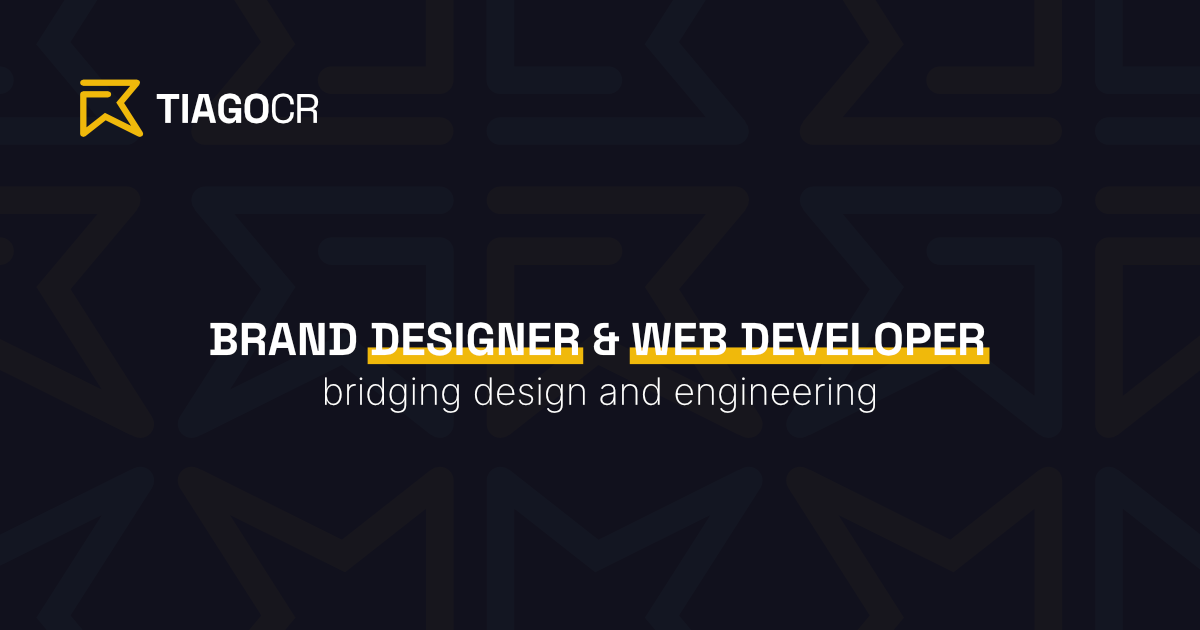
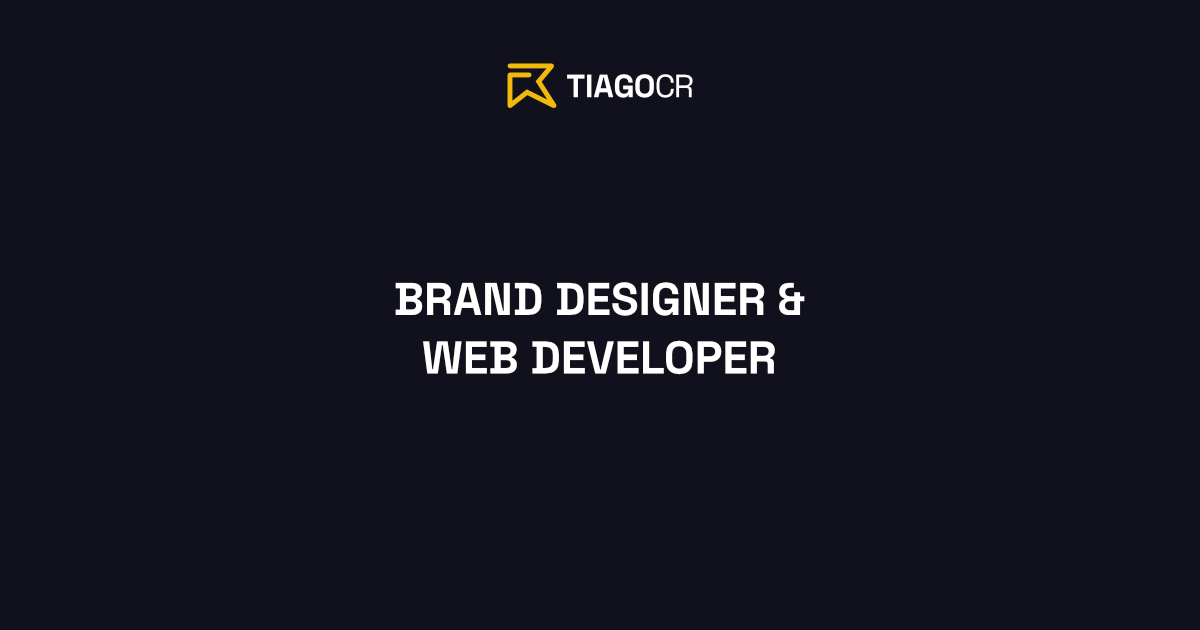
update: update og-default image. update meta description

Changed region(s): [[0.1542, 0.4222, 0.8325, 0.6635], [0.0617, 0.1206, 0.2775, 0.2111], [0.4008, 0.0905, 0.5858, 0.181]]

diff --git a/index.html b/index.html
@@ -9,12 +9,12 @@
 
   <!-- SEO baseline -->
   <meta name="description"
-    content="Brand designer & web developer. I design distinctive brands and build modern websites for founders and small businesses." />
+    content="Brand designer & web developer. I work with founder-led service businesses whose brand and website no longer reflect the standard of what they've built." />
 
   <!-- Open Graph baseline (social previews) -->
   <meta property="og:title" content="TiagoCR | Brand Designer & Web Developer" />
   <meta property="og:description"
-    content="I design distinctive brands and build modern websites for founders and small businesses." />
+    content="I work with founder-led service businesses whose brand and website no longer reflect the standard of what they've built." />
   <meta property="og:type" content="website" />
   <meta property="og:url" content="https://tiagocr.me/" />
   <meta property="og:image" content="https://tiagocr.me/og-default.png" />
@@ -25,7 +25,7 @@
   <meta name="twitter:card" content="summary_large_image" />
   <meta name="twitter:title" content="TiagoCR | Brand Designer & Web Developer" />
   <meta name="twitter:description"
-    content="I design distinctive brands and build modern websites for founders and small businesses." />
+    content="I work with founder-led service businesses whose brand and website no longer reflect the standard of what they've built." />
   <meta name="twitter:image" content="https://tiagocr.me/og-default.png" />
 
 